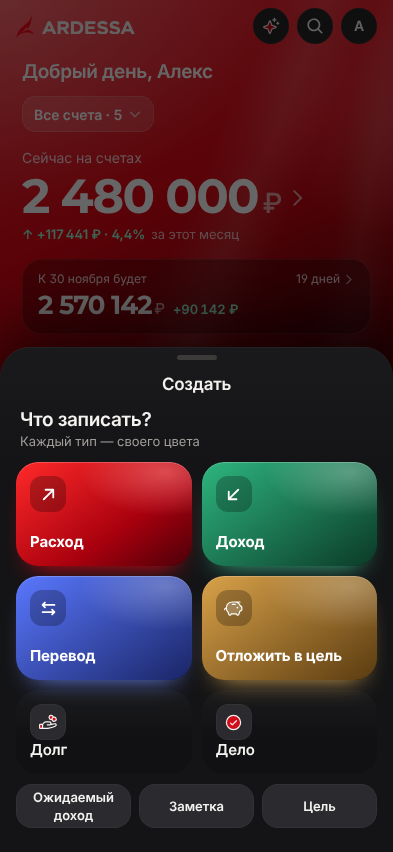
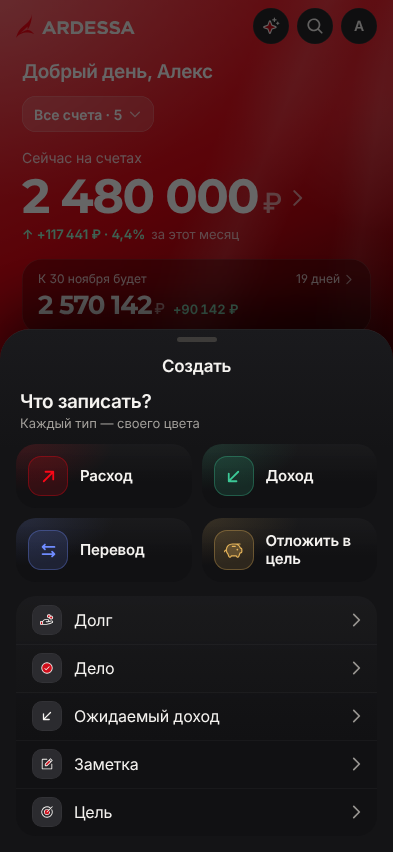
Calmer create sheet, debts and subscriptions: compact tiles with the kind colour as an accent, one summary panel, quieter composer button
Claude-Session: https://claude.ai/code/session_01LSueQ6MDisk3RjB885A4GJ

diff --git a/src/features/debts/Debts.tsx b/src/features/debts/Debts.tsx
@@ -44,8 +44,8 @@ function PersonAvatar({ p, size = 46 }: { p: DebtPerson; size?: number }) {
   const c = personColor(p);
   return (
     <span
-      className="grid shrink-0 place-items-center rounded-full font-bold text-white"
-      style={{ width: size, height: size, fontSize: size * 0.4, background: `radial-gradient(circle at 30% 25%, color-mix(in srgb, ${c} 55%, #fff), ${c} 55%, color-mix(in srgb, ${c} 55%, #000))`, boxShadow: p.closed ? undefined : `0 0 ${size / 2}px -6px ${c}` }}
+      className="grid shrink-0 place-items-center rounded-full font-semibold"
+      style={{ width: size, height: size, fontSize: size * 0.4, color: c, background: `color-mix(in srgb, ${c} 15%, transparent)`, boxShadow: `inset 0 0 0 1px color-mix(in srgb, ${c} 34%, transparent)` }}
     >
       {p.name.slice(0, 1).toUpperCase()}
     </span>
@@ -87,18 +87,33 @@ export function DebtsScreen() {
         />
       ) : (
         <>
-          <div className="grid grid-cols-2 gap-2.5 px-4">
-            <div className="rounded-[22px] p-3.5 text-white" style={{ background: "radial-gradient(80% 70% at 10% 0%, rgba(255,255,255,0.2), transparent 60%), linear-gradient(150deg, #2eb57f, #0b3a28)" }}>
-              <div className="text-caption text-white/80">{tr("Вам должны")}</div>
-              <Money value={owedToMe} currency={base} privacy variant="hero" className="mt-1 block text-[24px] leading-none" />
-              <div className="mt-1.5 text-caption text-white/75">{pluralN(toMeCount, ["человек", "человека", "человек"])}</div>
+          <section className="panel relative mx-4 overflow-hidden rounded-[22px]" aria-label={tr("Долги")}>
+            <span aria-hidden className="pointer-events-none absolute inset-0" style={{ background: "radial-gradient(70% 120% at 0% 0%, color-mix(in srgb, var(--positive) 13%, transparent), transparent 60%), radial-gradient(70% 120% at 100% 0%, color-mix(in srgb, var(--negative) 12%, transparent), transparent 60%)" }} />
+            <div className="relative grid grid-cols-2">
+              <div className="p-4">
+                <div className="flex items-center gap-1.5 text-footnote text-ink-2">
+                  <span className="h-1.5 w-1.5 rounded-full bg-positive" />
+                  {tr("Вам должны")}
+                </div>
+                <Money value={owedToMe} currency={base} privacy variant="hero" className="mt-1.5 block text-[26px] leading-none text-positive" />
+                <div className="mt-1.5 text-caption text-ink-3">{pluralN(toMeCount, ["человек", "человека", "человек"])}</div>
+              </div>
+              <div className="hairline-l p-4">
+                <div className="flex items-center gap-1.5 text-footnote text-ink-2">
+                  <span className="h-1.5 w-1.5 rounded-full bg-negative" />
+                  {tr("Вы должны")}
+                </div>
+                <Money value={iOwe} currency={base} privacy variant="hero" className="mt-1.5 block text-[26px] leading-none text-negative" />
+                <div className="mt-1.5 text-caption text-ink-3">{pluralN(fromMeCount, ["человеку", "людям", "людям"])}</div>
+              </div>
             </div>
-            <div className="rounded-[22px] p-3.5 text-white" style={{ background: "radial-gradient(80% 70% at 10% 0%, rgba(255,255,255,0.2), transparent 60%), linear-gradient(150deg, #ff2a2a, #6a0008)" }}>
-              <div className="text-caption text-white/80">{tr("Вы должны")}</div>
-              <Money value={iOwe} currency={base} privacy variant="hero" className="mt-1 block text-[24px] leading-none" />
-              <div className="mt-1.5 text-caption text-white/75">{pluralN(fromMeCount, ["человеку", "людям", "людям"])}</div>
-            </div>
-          </div>
+            {owedToMe + iOwe > 0 && (
+              <div className="relative flex h-[3px] gap-[2px] px-4 pb-0 pt-0" aria-hidden>
+                <div className="h-full rounded-full bg-positive" style={{ flex: Math.max(owedToMe, 1) }} />
+                <div className="h-full rounded-full bg-negative" style={{ flex: Math.max(iOwe, 1) }} />
+              </div>
+            )}
+          </section>
 
           <div className="flex items-baseline justify-between px-5 pb-2.5 pt-6">
             <h2 className="text-title-3 font-semibold">{tr("Люди")}</h2>
@@ -113,8 +128,8 @@ export function DebtsScreen() {
       )}
 
       <div className="mt-3 grid grid-cols-2 gap-2 px-4">
-        <Button variant="secondary" icon={ArrowUpRight} onClick={() => nav.sheet("debt", { direction: "owed_to_me" })}>{tr("Дал в долг")}</Button>
-        <Button variant="secondary" icon={ArrowDownLeft} onClick={() => nav.sheet("debt", { direction: "i_owe" })}>{tr("Взял в долг")}</Button>
+        <Button variant="secondary" size="md" icon={ArrowUpRight} onClick={() => nav.sheet("debt", { direction: "owed_to_me" })}>{tr("Дал в долг")}</Button>
+        <Button variant="secondary" size="md" icon={ArrowDownLeft} onClick={() => nav.sheet("debt", { direction: "i_owe" })}>{tr("Взял в долг")}</Button>
       </div>
 
       {closed.length > 0 && (
@@ -150,10 +165,10 @@ function PersonRow({ p, delay = 0 }: { p: DebtPerson; delay?: number }) {
       transition={{ ...spring.smooth, delay }}
       whileTap={{ scale: 0.985 }}
       onClick={() => nav.push("debt", { id: p.debts[p.debts.length - 1].debt.id })}
-      className="panel rounded-[22px] p-3.5 text-left"
+      className="panel rounded-[20px] p-3.5 text-left"
     >
       <div className="flex items-center gap-3">
-        <PersonAvatar p={p} />
+        <PersonAvatar p={p} size={40} />
         <div className="min-w-0 flex-1">
           <div className="truncate text-headline font-semibold">{p.name}</div>
           <div className="truncate text-footnote text-ink-2">
@@ -165,8 +180,8 @@ function PersonRow({ p, delay = 0 }: { p: DebtPerson; delay?: number }) {
           <div className="text-caption text-ink-3">{tr("осталось")}</div>
         </div>
       </div>
-      <div className="mt-3 h-[7px] overflow-hidden rounded-full bg-[var(--line)]">
-        <div className="h-full rounded-full" style={{ width: `${Math.max(p.progress > 0 ? 3 : 0, p.progress * 100)}%`, background: c, boxShadow: p.closed ? undefined : `0 0 10px ${c}` }} />
+      <div className="mt-3 h-[4px] overflow-hidden rounded-full bg-[var(--line)]">
+        <div className="h-full rounded-full" style={{ width: `${Math.max(p.progress > 0 ? 3 : 0, p.progress * 100)}%`, background: c }} />
       </div>
       <div className="mt-1.5 flex justify-between text-caption text-ink-3">
         <span>

diff --git a/src/features/create/CreateSheet.tsx b/src/features/create/CreateSheet.tsx
@@ -1,30 +1,30 @@
+import type { CSSProperties } from "react";
 import { motion } from "framer-motion";
 import { ArrowDownLeft, ArrowLeftRight, ArrowUpRight, CircleCheckBig, HandCoins, NotebookPen, PiggyBank, Target, type LucideIcon } from "../../ui/glyphs";
 import { haptic } from "../../lib/haptics";
 import { useData } from "../../store/store";
 import { nav } from "../../store/ui";
 import { spring } from "../../ui/motion";
+import { Group, Row } from "../../ui/primitives";
 import { Sheet, useSheet } from "../../ui/Sheet";
 import { tr } from "../../i18n/i18n";
 
 interface Big {
   label: string;
   icon: LucideIcon;
-  /** the card's own colour: expense red, income green, transfer blue, saving gold */
-  bg: string;
-  glow: string;
+  /** the kind's own colour (a token, so the light theme gets its darker twin): expense, income, transfer, saving */
+  color: string;
   run: () => void;
 }
 
 const BIG: Big[] = [
-  { label: tr("Расход"), icon: ArrowUpRight, bg: "radial-gradient(70% 60% at 85% 10%, rgba(255,140,140,0.5), transparent 70%), linear-gradient(145deg, #ff2a2a, #a8000e 62%, #4a0008)", glow: "#fa0717", run: () => nav.sheet("composer", { kind: "expense" }) },
-  { label: tr("Доход"), icon: ArrowDownLeft, bg: "radial-gradient(70% 60% at 85% 10%, rgba(255,255,255,0.28), transparent 70%), linear-gradient(145deg, #2eb57f, #0b3a28)", glow: "#3cc896", run: () => nav.sheet("composer", { kind: "income" }) },
-  { label: tr("Перевод"), icon: ArrowLeftRight, bg: "radial-gradient(70% 60% at 85% 10%, rgba(255,255,255,0.25), transparent 70%), linear-gradient(145deg, #5a78ff, #1a2566)", glow: "#6f8cff", run: () => nav.sheet("composer", { kind: "transfer" }) },
+  { label: tr("Расход"), icon: ArrowUpRight, color: "var(--accent)", run: () => nav.sheet("composer", { kind: "expense" }) },
+  { label: tr("Доход"), icon: ArrowDownLeft, color: "var(--positive)", run: () => nav.sheet("composer", { kind: "income" }) },
+  { label: tr("Перевод"), icon: ArrowLeftRight, color: "var(--transfer)", run: () => nav.sheet("composer", { kind: "transfer" }) },
   {
     label: tr("Отложить в цель"),
     icon: PiggyBank,
-    bg: "radial-gradient(70% 60% at 85% 10%, rgba(255,255,255,0.25), transparent 70%), linear-gradient(145deg, #d9a24a, #5a3b10)",
-    glow: "#e6b45a",
+    color: "var(--saving)",
     run: () => {
       const goals = useData.getState().goals.filter((g) => !g.archived);
       const goal = goals.find((g) => g.primary) ?? goals[0];
@@ -34,12 +34,9 @@ const BIG: Big[] = [
   }
 ];
 
-const SMALL: Array<{ label: string; icon: LucideIcon; run: () => void }> = [
+const MORE: Array<{ label: string; icon: LucideIcon; run: () => void }> = [
   { label: tr("Долг"), icon: HandCoins, run: () => nav.sheet("debt", {}) },
-  { label: tr("Дело"), icon: CircleCheckBig, run: () => nav.sheet("quickAdd", {}) }
-];
-
-const CHIPS: Array<{ label: string; icon: LucideIcon; run: () => void }> = [
+  { label: tr("Дело"), icon: CircleCheckBig, run: () => nav.sheet("quickAdd", {}) },
   { label: tr("Ожидаемый доход"), icon: ArrowDownLeft, run: () => nav.sheet("plan", { kind: "income" }) },
   {
     label: tr("Заметка"),
@@ -75,34 +72,26 @@ export function CreateSheet() {
             initial={{ opacity: 0, y: 8 }}
             animate={{ opacity: 1, y: 0 }}
             transition={{ ...spring.smooth, delay: 0.03 * i }}
-            whileTap={{ scale: 0.96 }}
+            whileTap={{ scale: 0.97 }}
             onClick={go(a.run)}
-            className="relative flex h-[104px] flex-col justify-between overflow-hidden rounded-[22px] p-3.5 text-left text-white"
-            style={{ background: a.bg, boxShadow: `inset 0 1px 0 rgba(255,255,255,0.22), 0 14px 26px -16px ${a.glow}` }}
+            className="panel relative flex h-[64px] items-center gap-3 overflow-hidden rounded-[20px] pl-3 pr-2 text-left"
+            style={{ "--k": a.color, "--glyph-fill": "currentColor", "--glyph-fill-o": 0.25 } as CSSProperties}
           >
-            <span className="grid h-9 w-9 place-items-center rounded-[12px] bg-black/25">
+            {/* the kind's colour is only a soft light from the corner and the icon — the card itself stays dark */}
+            <span aria-hidden className="pointer-events-none absolute inset-0" style={{ background: "radial-gradient(90% 120% at 0% 0%, color-mix(in srgb, var(--k) 15%, transparent), transparent 62%)" }} />
+            <span className="relative grid h-10 w-10 shrink-0 place-items-center rounded-[13px]" style={{ color: "var(--k)", background: "color-mix(in srgb, var(--k) 14%, transparent)", boxShadow: "inset 0 0 0 1px color-mix(in srgb, var(--k) 32%, transparent)" }}>
               <a.icon size={19} />
             </span>
-            <span className="text-callout font-bold">{a.label}</span>
+            <span className="relative min-w-0 text-[15px] font-semibold leading-[18px] text-ink">{a.label}</span>
           </motion.button>
         ))}
       </div>
-      <div className="mt-2.5 grid grid-cols-2 gap-2.5 px-4">
-        {SMALL.map((a, i) => (
-          <motion.button key={a.label} type="button" aria-label={a.label} initial={{ opacity: 0, y: 8 }} animate={{ opacity: 1, y: 0 }} transition={{ ...spring.smooth, delay: 0.12 + 0.03 * i }} whileTap={{ scale: 0.96 }} onClick={go(a.run)} className="panel flex h-[84px] flex-col justify-between rounded-[22px] p-3.5 text-left">
-            <span className="tile grid h-9 w-9 place-items-center rounded-[12px] text-ink">
-              <a.icon size={19} />
-            </span>
-            <span className="text-callout font-semibold">{a.label}</span>
-          </motion.button>
-        ))}
-      </div>
-      <div className="mt-2.5 grid grid-cols-3 gap-2 px-4 pb-2">
-        {CHIPS.map((a) => (
-          <button key={a.label} type="button" aria-label={a.label} onClick={go(a.run)} className="tile flex h-11 items-center justify-center gap-1.5 rounded-[16px] px-2 text-footnote font-semibold active:opacity-70">
-            {a.label}
-          </button>
-        ))}
+      <div className="mt-3.5">
+        <Group>
+          {MORE.map((a) => (
+            <Row key={a.label} icon={a.icon} className="!min-h-[48px] !py-2" title={a.label} chevron onClick={go(a.run)} ariaLabel={a.label} />
+          ))}
+        </Group>
       </div>
     </Sheet>
   );

diff --git a/src/features/transactions/Composer.tsx b/src/features/transactions/Composer.tsx
@@ -58,6 +58,7 @@ const KIND_META: Record<FlowKind, { label: string; icon: LucideIcon; fill: strin
 };
 
 
+const KIND_COLOR: Record<FlowKind, string> = { expense: "var(--accent)", income: "var(--positive)", transfer: "var(--transfer)" };
 const SAVE_LABEL: Record<FlowKind, string> = { expense: tr("Добавить расход"), income: tr("Добавить доход"), transfer: tr("Перевести") };
 
 export function ComposerSheet(props: ComposerProps) {
@@ -504,8 +505,8 @@ export function ComposerSheet(props: ComposerProps) {
                 onClick={save}
                 whileTap={{ scale: 0.97 }}
                 transition={spring.press}
-                className={cn("flex h-[54px] w-full items-center justify-center gap-2 rounded-[16px] text-headline font-semibold transition-colors duration-300", KIND_META[lockedKind ? "transfer" : kind].fill, KIND_META[lockedKind ? "transfer" : kind].on)}
-                style={{ boxShadow: KIND_META[lockedKind ? "transfer" : kind].shadow }}
+                className={cn("flex h-12 w-full items-center justify-center gap-2 rounded-[15px] text-callout font-semibold transition-[background-color,color,box-shadow] duration-300", amount > 0 || editing ? cn(KIND_META[lockedKind ? "transfer" : kind].fill, KIND_META[lockedKind ? "transfer" : kind].on) : KIND_META[lockedKind ? "transfer" : kind].tint)}
+                style={amount > 0 || editing ? { boxShadow: KIND_META[lockedKind ? "transfer" : kind].shadow } : { background: `color-mix(in srgb, ${KIND_COLOR[lockedKind ? "transfer" : kind]} 13%, transparent)`, boxShadow: `inset 0 0 0 1px color-mix(in srgb, ${KIND_COLOR[lockedKind ? "transfer" : kind]} 30%, transparent)` }}
               >
                 {editing || lockedKind ? tr("Сохранить") : SAVE_LABEL[kind]}
                 {amount > 0 && !cross && <span className="num font-medium opacity-75">· {formatMoney(amount, { currency })}</span>}

diff --git a/src/features/subscriptions/Subscriptions.tsx b/src/features/subscriptions/Subscriptions.tsx
@@ -74,14 +74,14 @@ export function SubscriptionsScreen() {
       ) : (
         <>
           <HeroCard material={materialOf("obsidian")} style={{ ["--ink" as string]: "#f5f3f0", ["--ink-2" as string]: "rgba(245,243,240,0.72)", ["--ink-3" as string]: "rgba(245,243,240,0.55)", ["--line" as string]: "rgba(255,255,255,0.12)" }}>
-            <div className="px-5 pb-[18px] pt-[18px]">
+            <div className="px-5 pb-4 pt-4">
               <div className="flex items-center justify-between gap-2">
                 <span className="text-[11px] font-semibold uppercase tracking-[0.16em] text-ink-3">{tr("Все регулярные списания")}</span>
                 <span className="rounded-full bg-white/10 px-2.5 py-0.5 text-caption font-semibold text-ink-2">{tr("в месяц")}</span>
               </div>
-              <Money value={monthlyAll} currency={base} variant="hero" privacy className="mt-2 block text-[40px] leading-none" />
-              {monthlyAll > 0 && <ProgressBar value={monthlySubs / monthlyAll} height={7} className="mt-4" />}
-              <div className="mt-3 grid grid-cols-2 gap-3">
+              <Money value={monthlyAll} currency={base} variant="hero" privacy className="mt-2 block text-[34px] leading-none" />
+              {monthlyAll > 0 && monthlySubs < monthlyAll && <ProgressBar value={monthlySubs / monthlyAll} height={3} className="mt-3.5" />}
+              <div className="mt-3.5 grid grid-cols-2 gap-3 border-t border-white/10 pt-3">
                 <div>
                   <div className="text-caption text-ink-3">{tr("Подписки в месяц")}</div>
                   <Money value={monthlySubs} currency={base} className="mt-0.5 block text-headline font-semibold" />

diff --git a/src/ui/Keypad.tsx b/src/ui/Keypad.tsx
@@ -59,7 +59,7 @@ export function Keypad<K extends string = KeypadKey>({ onKey, compact, ops, acti
   };
 
   return (
-    <div className={cn("grid gap-x-2 gap-y-1 px-3", ops ? "grid-cols-[1fr_1fr_1fr_0.72fr]" : "grid-cols-3")} role="group" aria-label={tr("Клавиатура суммы")}>
+    <div className={cn("grid gap-x-2 gap-y-1 px-3", ops ? "grid-cols-[1fr_1fr_1fr_0.62fr]" : "grid-cols-3")} role="group" aria-label={tr("Клавиатура суммы")}>
       {keys.map((k) => {
         const op = isOpKey(k);
         return (
@@ -83,7 +83,7 @@ export function Keypad<K extends string = KeypadKey>({ onKey, compact, ops, acti
             className={cn(
               "num flex items-center justify-center rounded-[14px]",
               compact ? "h-[clamp(42px,6.1vh,52px)]" : "h-[56px]",
-              op ? cn("text-[24px] font-light", activeOp === k ? "bg-accent-soft text-accent-ink" : "tile text-ink-2", k === "=" && "text-accent-ink") : "text-[27px] font-normal text-ink"
+              op ? cn("text-[24px] font-light", activeOp === k ? "bg-accent-soft text-accent-ink" : "text-ink-2 shadow-[inset_0_0_0_0.5px_var(--line)]", k === "=" && "text-accent-ink") : "text-[27px] font-normal text-ink"
             )}
           >
             {k === "back" ? <Delete size={24} strokeWidth={1.7} /> : k === "," ? decimal : op ? OP_LABEL[k] : k}

diff --git a/src/styles/index.css b/src/styles/index.css
@@ -519,6 +519,10 @@
     box-shadow: inset 0 0.5px 0 var(--line);
   }
 
+  .hairline-l {
+    box-shadow: inset 0.5px 0 0 var(--line);
+  }
+
   /* Blur under bars: a modest radius — the bars are nearly opaque anyway,
      and a large radius costs older iPhones frames while scrolling. */
   .blur-bar {
